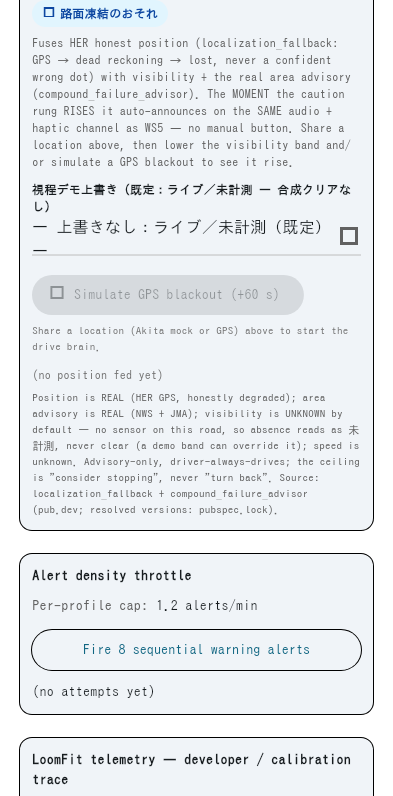
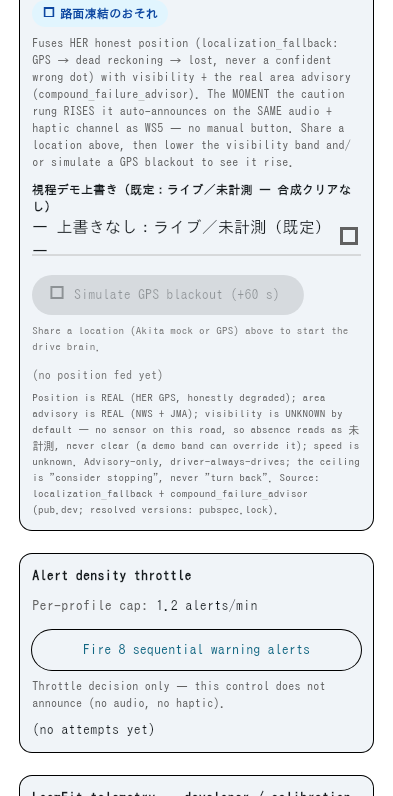
docs+ui: a stale absence-claim is a landmine for the next reader — land the correction, re-capture what it moved
Two docs said "no Android device in this environment". False since 2026-07-09
(android-sdk registered, AVD sngnav_api30, 71 ladder_out files tracked) and never
propagated (OPS-RULE-002). The stale sentence was AAE's own; a later reader took
it at face value and reported a rediscovery as a discovery. What stays TRUE and
DEFERRED: no PHYSICAL phone — measured this turn, `flutter devices` -> Linux
(desktop) only, adb absent. Emulator != phone: ladder_out ran -no-audio, so
nobody has yet HEARD this app speak (BETA_PLAN C1).

UI (AAE-7, provenance in the same glance): the alert-density debug control now
says "Throttle decision only — this control does not announce (no audio, no
haptic)" and its rows read "WOULD FIRE", not "FIRED". The 2026-07-09 walk read
that green word as proof the alert path actuates. It never was.

That caption shifted layout and turned two render-SEE captures red (6.45%,
20178px). Verified the diff was my own new text — not HER-facing pixels — by
LOOKING at the isolated diff, then re-captured and looked again: the chip
"路面凍結のおそれ" is unchanged and legible. The Icons.ac_unit tofu remains the
documented harness bound, not an on-device defect.

Local only. Push to origin is a world-facing act and is not this seat's to make.

diff --git a/lib/main.dart b/lib/main.dart
@@ -2742,6 +2742,21 @@ class _HomePageState extends State<HomePage> {
                     onPressed: _fireAlertSequence,
                     child: const Text('Fire 8 sequential warning alerts'),
                   ),
+                  const SizedBox(height: 4),
+                  // AAE-7: this control evaluates AlertDensityThrottle and
+                  // records telemetry. It does NOT call _announcer — no audio,
+                  // no haptic, nothing reaches HER from this button. It is a
+                  // throttle-decision simulation, and it says so, because the
+                  // 2026-07-09 on-device walk read its green result word as
+                  // proof the alert path actuates. It is not that proof.
+                  Text(
+                    'Throttle decision only — this control does not announce '
+                    '(no audio, no haptic).',
+                    style: TextStyle(
+                      fontSize: 12,
+                      color: Colors.grey.shade700,
+                    ),
+                  ),
                   const SizedBox(height: 8),
                   if (_attempts.isEmpty)
                     const Text('(no attempts yet)')
@@ -2752,7 +2767,7 @@ class _HomePageState extends State<HomePage> {
                           .map((a) => Text(
                                 'Attempt ${a.index} '
                                 '(t+${a.relativeSeconds}s): '
-                                '${a.fired ? "FIRED" : "throttled"}',
+                                '${a.fired ? "WOULD FIRE" : "throttled"}',
                                 style: TextStyle(
                                   color: a.fired
                                       ? Colors.green.shade700

diff --git a/docs/on_device_verify_checklist.md b/docs/on_device_verify_checklist.md
@@ -1,8 +1,21 @@
 # On-Device OPS-066 Verify — Published JA Narration + Voice (the 10-minute act)
 
-**Owner**: AAE (android-app-engineer). **Status**: **DEFERRED — no Android device
-in the build environment.** Everything below is PREPARED; the moment a device is
-plugged in, this is a ~10-minute verification, not a build session.
+**Owner**: AAE (android-app-engineer). **Status**: **DEFERRED — no PHYSICAL
+Android device. An emulator exists and has been walked.** Everything below is
+PREPARED; the moment a phone is plugged in, this is a ~10-minute verification,
+not a build session.
+
+> **Corrected 2026-08-09 (AAE, OPS-RULE-002).** This line read *"no Android
+> device in the build environment"* and was **false as written**, contradicted
+> ~32 lines below in this same file (`SDK /home/komada/android-sdk`, registered
+> via `flutter config`) and by **71 files tracked in git** at `ladder_out/` — a
+> full API-30 emulator walk dated **2026-07-09**, with a 2026-07-10 airplane-mode
+> pass appended. The stale sentence was mine and stood for a month; a later
+> reader took it at face value and reported a rediscovery as a discovery.
+> **What remains TRUE and DEFERRED:** no physical phone. Measured this turn —
+> `flutter devices` → `Found 1 connected device: Linux (desktop)`; `adb devices`
+> → empty. Emulator ≠ phone: `ladder_out/` ran `-no-audio`, so **nobody has yet
+> HEARD this app speak** (`BETA_PLAN.md:31`). HEAR/FEEL stays ⬜.
 
 **Companion**: `docs/DEVICE_VERIFICATION.md` (the WS5/WS6 actuator deep
 checklist — audio quality, haptic distinguishability, wakelock, long-drive).

diff --git a/docs/DEVICE_VERIFICATION.md b/docs/DEVICE_VERIFICATION.md
@@ -93,7 +93,16 @@ Andon, not a footnote.
 
 ## Status
 
-**DEFERRED** — no Android device in this environment. Until every item above is
-PASS on a real device, the app claims only: *"the caution code-path reaches HER
-on audio + haptic; on-device HEAR / FEEL is deferred."* It never claims *"works
-on Android."*
+**DEFERRED** — no **physical** Android device in this environment. An Android
+SDK, an emulator and the AVD `sngnav_api30` DO exist here and were walked on
+2026-07-09 (`ladder_out/`, 71 files tracked in git; airplane-mode pass
+2026-07-10). Until every item above is PASS on a **physical phone**, the app
+claims only: *"the caution code-path reaches HER on audio + haptic; on-device
+HEAR / FEEL is deferred."* It never claims *"works on Android."*
+
+> **Corrected 2026-08-09 (AAE, OPS-RULE-002).** This line read *"no Android
+> device in this environment"* — false since 2026-07-09, and never propagated.
+> The deferral itself was and remains correct: the emulator ladder ran
+> `-no-audio` and bound a **server** voice, so it cannot discharge HEAR or FEEL.
+> Measured this turn: `flutter devices` → `Found 1 connected device: Linux
+> (desktop)`; `adb devices` → empty.
